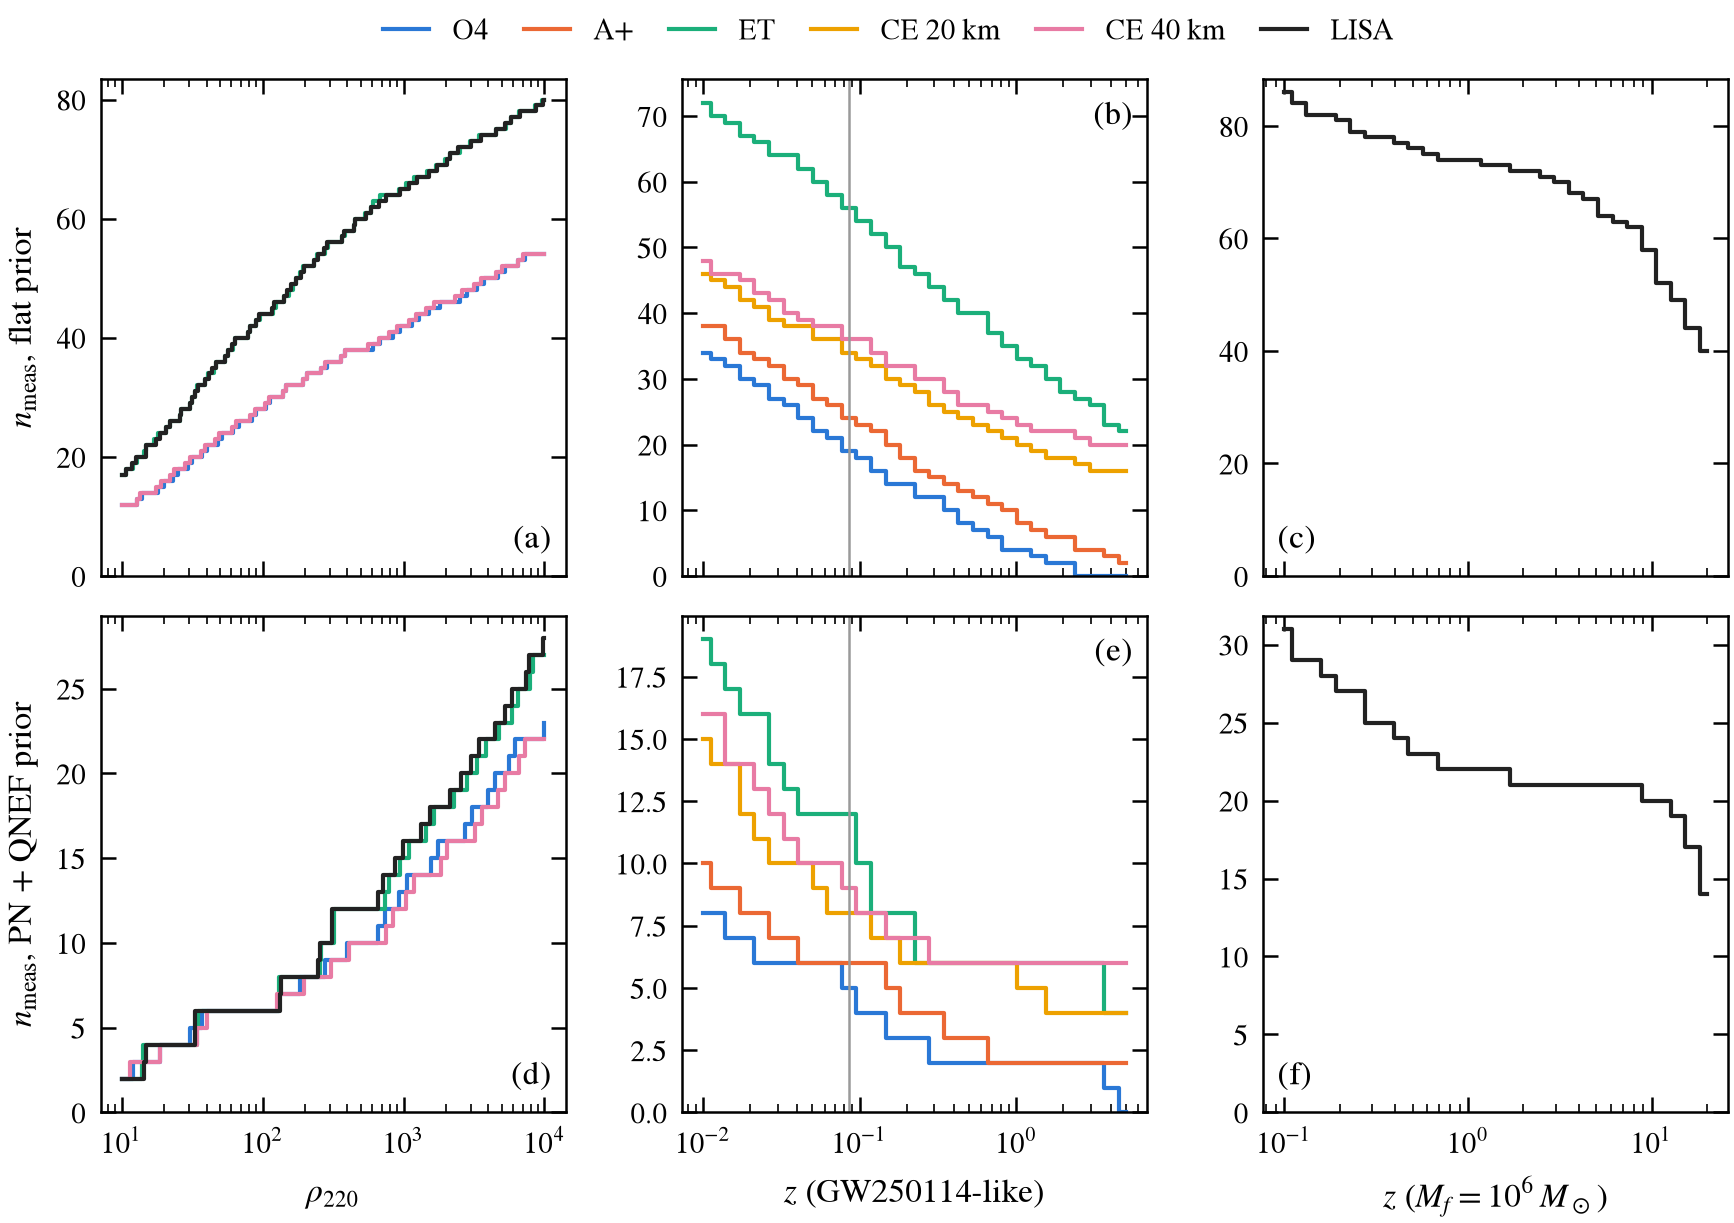
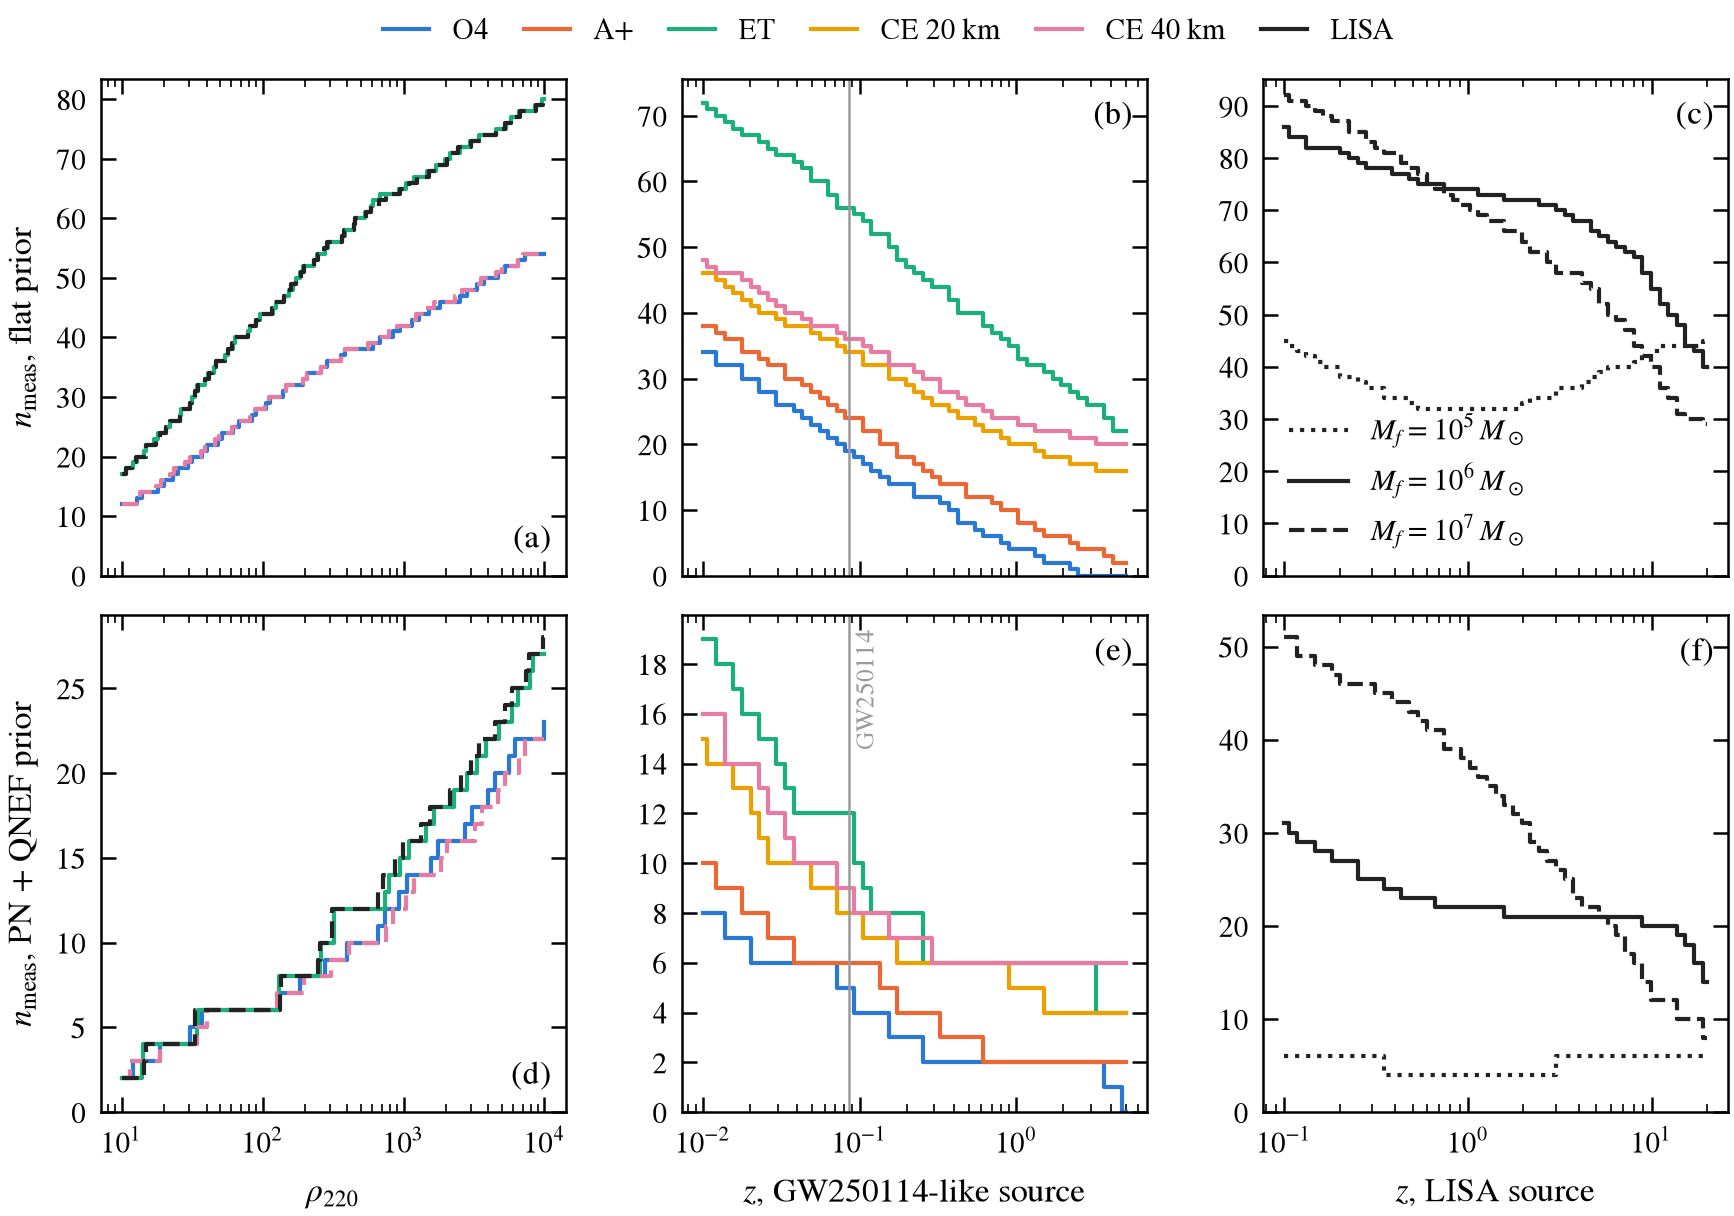
measuring-qnms: F1-F3 final; F2 axis convention corrected; LISA at three masses

diff --git a/projects/measuring-qnms/results.md b/projects/measuring-qnms/results.md
@@ -74,7 +74,7 @@ With the current amplitude prior (2026-09-27) the reference counts are 5 (19), 9
 
 <figure>
 <a href="figs/measurability.png"><img src="figs/measurability.png" alt="Measurable channels versus the 220 SNR and versus redshift for O4, A+, ET, Cosmic Explorer and LISA, flat prior on top and PN plus QNEF prior below"></a>
-<figcaption>$n_{\rm meas}$ (real channels; each complex mode amplitude has two, so the 220 alone counts as 2) from $t_0 = 10\,M_f$, every mode $\ell \le 8$, $n \le 7$. (a, d) Against the 220's expected optimal SNR $\rho_{220}$, for the GW250114-like source (LISA: $10^6\,M_\odot$ at $z = 1$). (b, e) The GW250114-like source moved in redshift; the grey line is GW250114 ($z = 0.086$). (c, f) A $10^6\,M_\odot$ remnant in LISA. Top: flat prior with the same expected total SNR as the PN + QNEF prior. Bottom: PN + QNEF prior. Networks: O4 and A+ as two co-aligned LIGO detectors (one polarization); ET as a triangle of three 60° interferometers; CE as a single L; LISA as the A and E channels. The source is overhead, $\psi = 0$.</figcaption>
+<figcaption>$n_{\rm meas}$ (real channels; each complex mode amplitude has two, so the 220 alone counts as 2) from $t_0 = 10\,M_f$, every mode $\ell \le 8$, $n \le 7$. (a, d) Against the 220's expected optimal SNR $\rho_{220}$, for the GW250114-like source (LISA: $10^6\,M_\odot$ at $z = 1$). (b, e) The GW250114-like source moved in redshift; the grey line is GW250114 ($z = 0.086$). (c, f) LISA remnants of $10^5$ (dotted), $10^6$ (solid) and $10^7\,M_\odot$ (dashed) against their redshift. Top: flat prior with the same expected total SNR as the PN + QNEF prior. Bottom: PN + QNEF prior. In (a, d) CE 40 km (dashed) coincides with O4, and LISA (dashed) with ET: the count depends only on $\rho_{220}$ and on whether one or both polarizations are seen. Networks: O4 and A+ as two co-aligned LIGO detectors (one polarization); ET as a triangle of three 60° interferometers; CE as a single L; LISA as the A and E channels. The source is overhead, $\psi = 0$.</figcaption>
 </figure>
 
 **Takeaway.**
@@ -82,7 +82,7 @@ With the current amplitude prior (2026-09-27) the reference counts are 5 (19), 9
 - **GW250114 at its distance, PN + QNEF prior:** O4 5, A+ 6, CE 20 km 8, CE 40 km 9, ET 12. That is, the 220 plus 3 (O4) to 10 (ET) further real channels. With the earlier prior these were 5, 6, 10, 11, 14.
 - **Growth with SNR is roughly logarithmic:** 2 channels at $\rho_{220} = 10$, 6 at 100, 12–16 at 1000 and 22–28 at $10^4$. Above $\rho_{220} \approx 500$, networks that see both polarizations (ET, LISA) pull ahead.
 - **Third-generation detectors keep 4–6 channels out to $z \sim 5$**, because the redshifted mass moves the ringdown into their low-frequency band. O4 and A+ drop to the 220 alone (2) by $z \approx 1$.
-- **LISA ($10^6\,M_\odot$) keeps about 20–22 channels from $z \approx 1$ to 10**, and 14 at $z = 20$.
+- **LISA:** a $10^6\,M_\odot$ remnant keeps about 20–22 channels from $z \approx 1$ to 10, and 14 at $z = 20$. A $10^7\,M_\odot$ remnant gives more at low redshift (51 at $z = 0.1$) and falls below $10^6$ beyond $z \approx 5$, as its ringdown drops out of the band. A $10^5\,M_\odot$ remnant gives only 4–6 channels, and its count rises again beyond $z \approx 3$ as redshift moves its ringdown (about 0.15 Hz) down into the most sensitive band. At those frequencies our long-wavelength LISA response is not accurate; the exact response is a planned check.
 - **At equal total SNR, the flat prior gives 3–5× more channels** (O4 19, CE 40 km 36, ET 56, LISA 74 at the source). The PN + QNEF structure concentrates the signal into a few correlated directions, so the measurability count depends strongly on what we know about the amplitudes.
 
 **Caveats.** An overhead source with co-located detectors is an idealisation. The PN + QNEF prior under-covers (3,2) and (4,3) and over-covers (3,3) (F1). The count is of *channels* (combinations of amplitudes), not of named modes.
@@ -93,13 +93,15 @@ With the current amplitude prior (2026-09-27) the reference counts are 5 (19), 9
 
 <figure>
 <a href="figs/sensitivity_overlay.png"><img src="figs/sensitivity_overlay.png" alt="Characteristic strain of the real SXS:BBH:0180 ringdown and of QNEF prior draws against O4, A+, ET and Cosmic Explorer (left) and against LISA for a million-solar-mass remnant at redshift 1 (right), from 10 M after the peak"></a>
-<figcaption>$2\sqrt f\,|\tilde h_+(f)|$ against $\sqrt{f S_n(f)}$ (Moore, Cole &amp; Berry convention), from $t_0 = 10\,M_f$. Black: the SXS:BBH:0180 strain (equal mass, non-spinning, $\chi_f = 0.686$; all harmonics $\ell \le 8$, $m \ne 0$; $\iota = 0.78$). Grey: 40 draws of every mode ($\ell \le 8$, $n \le 7$) from the QNEF prior conditioned on the fitted 220. (a) GW250114 scaling: $M_f^{\rm det} = 68.1\,M_\odot$, $D_L = 405$ Mpc. (b) $M_f = 10^6\,M_\odot$ at $z = 1$. $h_+$ for $F_+ = 1$; ET and LISA (60° interferometers) at their best orientation. ρ is the optimal single-detector SNR of the NR strain.</figcaption>
+<figcaption>Characteristic strain $2f\,|\tilde h_+(f)|$ of the ringdown against the noise amplitude $\sqrt{f S_n(f)}$ (Moore, Cole &amp; Berry convention: both dimensionless, and $\rho^2 = \int (2f|\tilde h|/\sqrt{fS_n})^2\,d\ln f$), from $t_0 = 10\,M_f$. Black: the SXS:BBH:0180 strain (equal mass, non-spinning, $\chi_f = 0.686$; all harmonics $\ell \le 8$, $m \ne 0$; $\iota = 0.78$). Grey: 5–95% band of 200 draws of every mode ($\ell \le 8$, $n \le 7$) from the PN + QNEF prior conditioned on the fitted 220. (a) GW250114 scaling: $M_f^{\rm det} = 68.1\,M_\odot$, $D_L = 406$ Mpc. (b) $M_f = 10^6\,M_\odot$ at $z = 1$, one LISA channel. $h_+$ for $F_+ = 1$; ET and LISA (60° interferometers) at their best orientation. Optimal single-detector SNR of the NR strain from $10\,M$: O4 22, A+ 41, ET 187, CE 20 km 223, CE 40 km 326, LISA 2789.</figcaption>
 </figure>
 
 **Takeaway.**
 
-- The prior draws bracket the real strain.
+- The prior band brackets the real strain.
 - Optimal SNRs from $10\,M$: O4 22, A+ 41, ET 187, CE 20 km 223, CE 40 km 326; LISA about 2800 per channel.
+- **Above about 500 Hz the strain spectrum is flat** ($|\tilde h| \propto 1/f$). That is the sharp start of the analysis window at $10\,M$, not ringdown content. For ET and CE it lies above the noise up to 5 kHz, so part of their SNR comes from the window edge. Not yet quantified.
+- *Correction (2026-09-28):* earlier versions of this plot drew $2\sqrt f\,|\tilde h_+|$ against $\sqrt{fS_n}$, which put the noise curves off by $\sqrt f$ relative to the signal. The SNRs were computed correctly and do not change.
 - From the peak, O4 gets 35, in line with LVK's network value of about 40 post-merger.
 
 **Caveats.** $\varphi = 0$; $\iota$ is the folded value; $m = 0$ harmonics are left out; $D_L$ comes from $z = M_f^{\rm det}/M_f - 1$.
@@ -109,26 +111,16 @@ With the current amplitude prior (2026-09-27) the reference counts are 5 (19), 9
 ### F1 — Do the calibrated priors cover NR?
 
 <figure>
-<a href="figs/prior_vs_nr.png"><img src="figs/prior_vs_nr.png" alt="(a, b) prior-predictive amplitude ratios per mode versus NR, modulus and phase; (c, d) NR strain versus prior bands with every mode for two SXS runs, from 10 M"></a>
-<figcaption>(a, b) For each SXS run, both priors are conditioned on that run's own 220 and predict $C_j/C_{220}$ at the merger. The PN × QNEF prior is 1PN at the run's own $v_{\rm peak}$ with four calibrated numbers ([derivations §8](#derivations)). Violins pool the predictions and grey dots are NR (jaxqualin). The numbers give the fraction of runs inside their own central 68% (1σ) interval (blue: QNEF, orange: flat); a calibrated prior gives about 68%. (c, d) NR strain for SXS:BBH:0180 and SXS:BBH:1437 from $10\,M_f$ against 5–95% bands from draws of every mode ($\ell \le 8$, $n \le 7$). Green: $|h_{22}|$; yellow: rms of all other $m > 0$ harmonics.</figcaption>
+<a href="figs/prior_vs_nr.png"><img src="figs/prior_vs_nr.png" alt="Prior-predictive amplitude ratios per mode, modulus and phase, for the PN plus QNEF prior and the flat prior, against NR on held-out runs"></a>
+<figcaption>Amplitude ratios $C_j/C_{220}$ at the merger, (a) modulus and (b) phase. For each SXS run the prior is conditioned on that run's own 220 and predicts the ratio; violins pool these predictions over runs. Blue: the PN + QNEF prior (1PN at the run's own $v_{\rm peak}$, four calibrated numbers, [derivations §8](#derivations)). Orange: the flat prior (every mode independent with the 220's scale; its phase is uniform and not shown). Dots: NR (jaxqualin). Only the 150 runs held out of the calibration are used, so the prior never saw these data.</figcaption>
 </figure>
 
 **Takeaway.**
 
-- **Per mode, 1σ coverage (target 68%), all runs:** 221 88%, 330 100%, 331 99%, 210 63%, 211 58%, 320 42%, 440 68%, 550 79%, 660 68%. The flat prior is at 0–51%.
-- **The 221 is now covered** (88%; it was 26% with the earlier per-mode prior). The calibrated factor $\kappa = 0.77$ carries NR's known offset of about 0.8 from the QNEF ratio ([derivations §8.3](#derivations)).
-- **One pooled error $e$ is too wide for (3,3) and too narrow for (3,2).** (3,3) and (3,3,1) are over-covered, because NR's (3,3) sits at 1.9× the 1PN prediction at $v_{\rm peak}$ and $e$ has to reach it ([§8.4](#derivations)). The (3,2) is under-covered, and its phase is poorly predicted (panel b).
-- **The phases** of the 221 and 211 are predicted tightly and match NR; the 330's phase prior is broad but centred on NR. For the 331 and 210, NR's phases sit about 1.5 rad from the prior's median.
-- **Total strain (c, d):** the NR strain lies inside, or at the edge of, the prior bands from $10\,M$ for both runs.
-- The coverage table below was computed with the earlier per-mode prior and has not been redone:
-
-| window after the peak | $h_{22}$ | other harmonics | prior / NR for $\lvert h_{22}\rvert$ |
-|---|---|---|---|
-| 5–10 M | 61% | 2% | 1.78 |
-| 10–15 M | 83% | 33% | 1.06 |
-| 15–20 M | 95% | 59% | 0.98 |
-| 20–25 M | 72% | 68% | 0.97 |
-
-- **This sets the default start at 10 M.** Earlier, the prior predicts too much strain, mostly because jaxqualin amplitudes are extracted where stable (10–15 M) and quoted back at the peak. Improving on this is an open item in the [plan](#plan).
+- **The PN + QNEF prior tracks NR mode by mode.** Coverage of $|C_j/C_{220}|$ in each run's own central 68% interval (target 68%): 221 87%, 440 70%, 550 74%, 660 68%, 211 62%, 210 59%. The flat prior covers 0–2% for every fundamental and the 221.
+- **One pooled error $e$ is too wide for (3,3) and too narrow for (3,2) and (4,3).** 330 and 331: 99–100%. 320: 41%; 430: 37% (43 runs). NR's (3,3) sits at 1.9× the 1PN prediction at $v_{\rm peak}$, and $e$ has to reach it ([§8.4](#derivations)).
+- **The 221 is now covered** (87%; 26% with the earlier per-mode prior). The calibrated factor $\kappa = 0.77$ carries NR's offset of about 0.8 from the QNEF ratio.
+- **Phases:** the 221 is predicted tightly and matches NR; the 330's broader prediction is centred on NR. NR's phase sits about 1 rad from the prior's circular mean for the 210 and 211, and 0.5 rad for the 331. For the 320, 440 and 660, NR splits into two groups that the prior does not resolve.
+- **The default start of 10 M** comes from an earlier check of the total strain against the earlier prior (5–10 M after the peak the prior predicted 1.8× too much $|h_{22}|$; from 10 M it was within 6%). It has not been redone with this prior.
 
 **Reproduce.** `python -m mqnm.experiments.prior_vs_nr`.

diff --git a/projects/measuring-qnms/log.md b/projects/measuring-qnms/log.md
@@ -1,5 +1,12 @@
 Newest first. One entry per working session: what was done, what was learned, and what went wrong.
 
+### 2026-09-28 — F1–F3 redrawn as final figures; F2 axis correction
+
+- **F1** now uses only the 150 runs held out of the calibration, shows the PN + QNEF and flat priors side by side, and adds the (4,3). The coverage numbers moved from the plot to the text.
+- **F2 correction.** Earlier versions drew $2\sqrt f\,|\tilde h_+|$ against $\sqrt{fS_n}$, which put the noise curves off by $\sqrt f$ relative to the signal (about 16× too high at 250 Hz, 10× too low in the LISA band). The plot now uses $2f|\tilde h_+|$ against $\sqrt{fS_n}$. The SNRs were computed correctly and are unchanged. The corrected plot shows a flat strain spectrum above about 500 Hz, which comes from the sharp start of the analysis window; for ET and CE it lies above the noise up to 5 kHz. How much of their SNR it carries is not yet quantified.
+- **F3** adds LISA remnants of $10^5$ and $10^7\,M_\odot$. The $10^5\,M_\odot$ count rises again beyond $z \approx 3$; at its frequencies our long-wavelength LISA response is not accurate.
+- Fixed in the code: the LISA noise model returned NaN above about 3 Hz (only reached by light sources).
+
 ### 2026-09-27 — new amplitude prior in the code; figures remade
 
 - **The four-number prior is now the code's prior.** Each binary takes its own $v = (M\Omega_{\rm peak})^{1/3}$ from the SEOBNRv4 NR fit of the peak frequency (Bohé et al., arXiv:1611.03703), which matches 280 SXS runs to 0.56% rms in frequency. Refitted in the code: $e = 1.95$, $f = 0.34$, $a = 1.30$, $\kappa = 0.77$. The non-modal GP was refitted with it ($\lambda_e = 2.21$, $\tau = 4.0\,M$). [Derivations §8, §10](#derivations).
